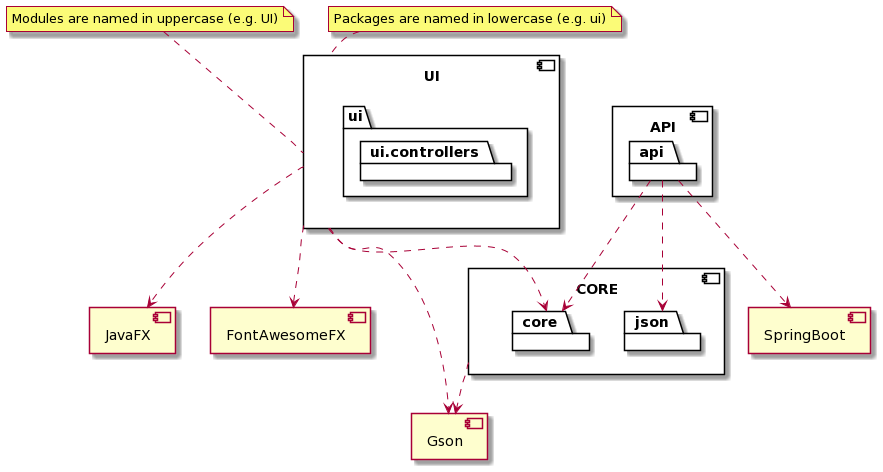
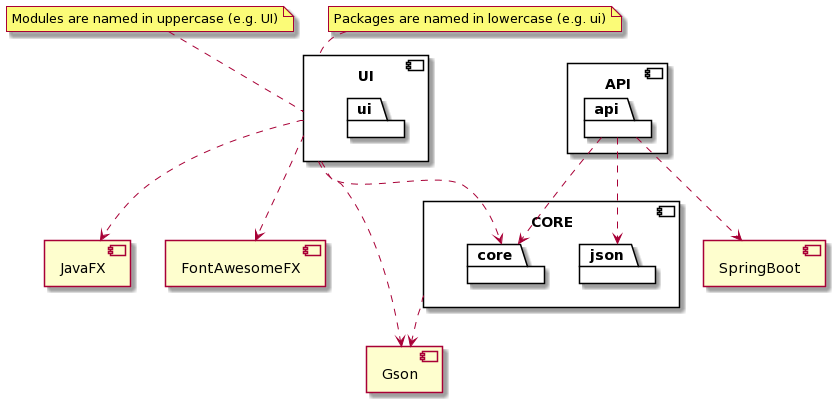
fix: Small cleanup of diagram and remove redundant dependency
Issue: #100

diff --git a/docs/release3/DIAGRAMS.md b/docs/release3/DIAGRAMS.md
@@ -15,9 +15,11 @@ This package diagram shows the dependencies of each module and package in the Co
 ## Class diagram documentation
 
 This class diagram shows the relationship between the classes in the core module.
+
 ![Core Diagram](../plantuml/release3/img/core_diagram.png)
 
-This class diagram shows the rellationship between the classes in the api module
+This class diagram shows the relationship between the classes in the api module.
+
 ![API Class Diagram](../plantuml/release3/img/api_class_diagram.png)
 
 ## Sequence diagram documentation
